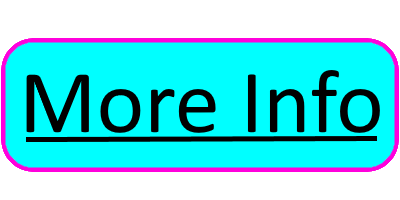
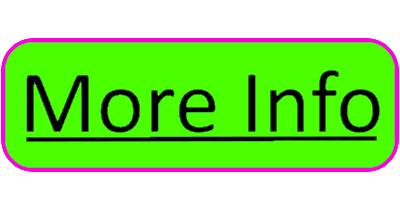
UI update

diff --git a/site/inventory.php b/site/inventory.php
@@ -55,7 +55,7 @@
   }
     $namelink = "?name='" . $row["name"] . "'";
     str_replace(" ", "+", $namelink);
-    echo '<td> <a href="product.php' . $namelink . '">More Info</a> </td>';
+    echo '<td> <a href="product.php' . $namelink . '"> <img src="images/more-info.png"style="width:60px;height:30px;border:0;"> </a> </td>';
     echo "</tr>";
   }
   echo "</tbody> </table>";

diff --git a/site/purchase.php b/site/purchase.php
@@ -42,6 +42,5 @@ if (isset($_POST['submit'])) {
     	<input type="submit" name="submit" value="Submit">
     </form>
 
-    <a href="index.php">Back to home</a>
 </center>
     <?php include "templates/footer.php"; ?>
